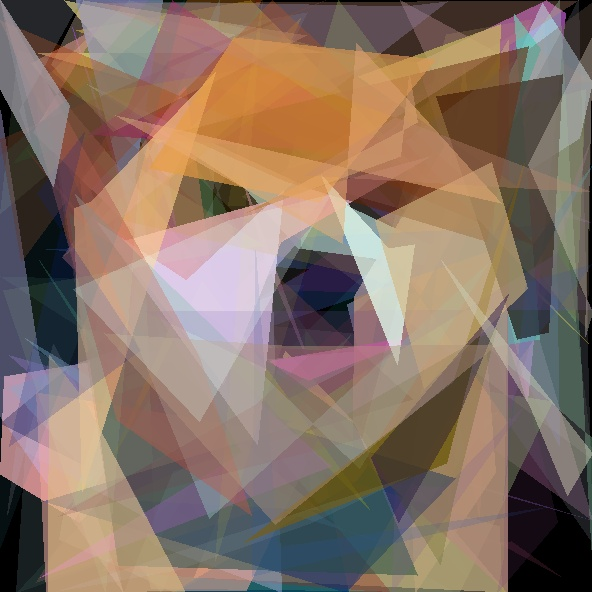
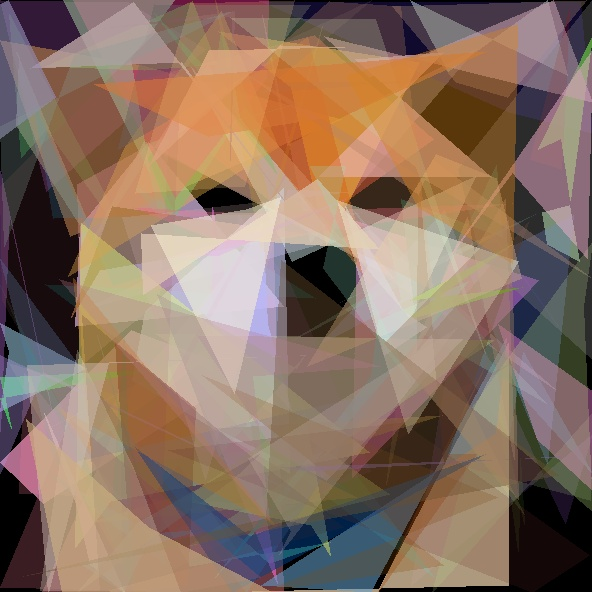
Update results

diff --git a/main.py b/main.py
@@ -61,12 +61,12 @@ ga = GA(
 pso = PSO(
     img,
     swarm_size=1000,
-    line_length=10,
+    line_length=15,
     velocity_update_rule=velocity_update.Standard(),  # velocity_update.Standard(), velocity_update.FullyInformed(), velocity_update.ComprehensiveLearning()
     neighborhood_topology=topology.StarTopology(),  # topology.DistanceTopology(), topology.RingTopology(), topology.StarTopology()
     neighborhood_size=3,
-    coeffs=(0.1, 1.5, 1.2),  # Inertia (0.7 - 0.8), cognitive coeff/social coeff (1.5 - 1.7)
-    min_distance=0,
+    coeffs=(0.1, 1.5, 1.5),  # Inertia (0.7 - 0.8), cognitive coeff/social coeff (1.5 - 1.7)
+    min_distance=2,
     max_velocity=50
 )
 
